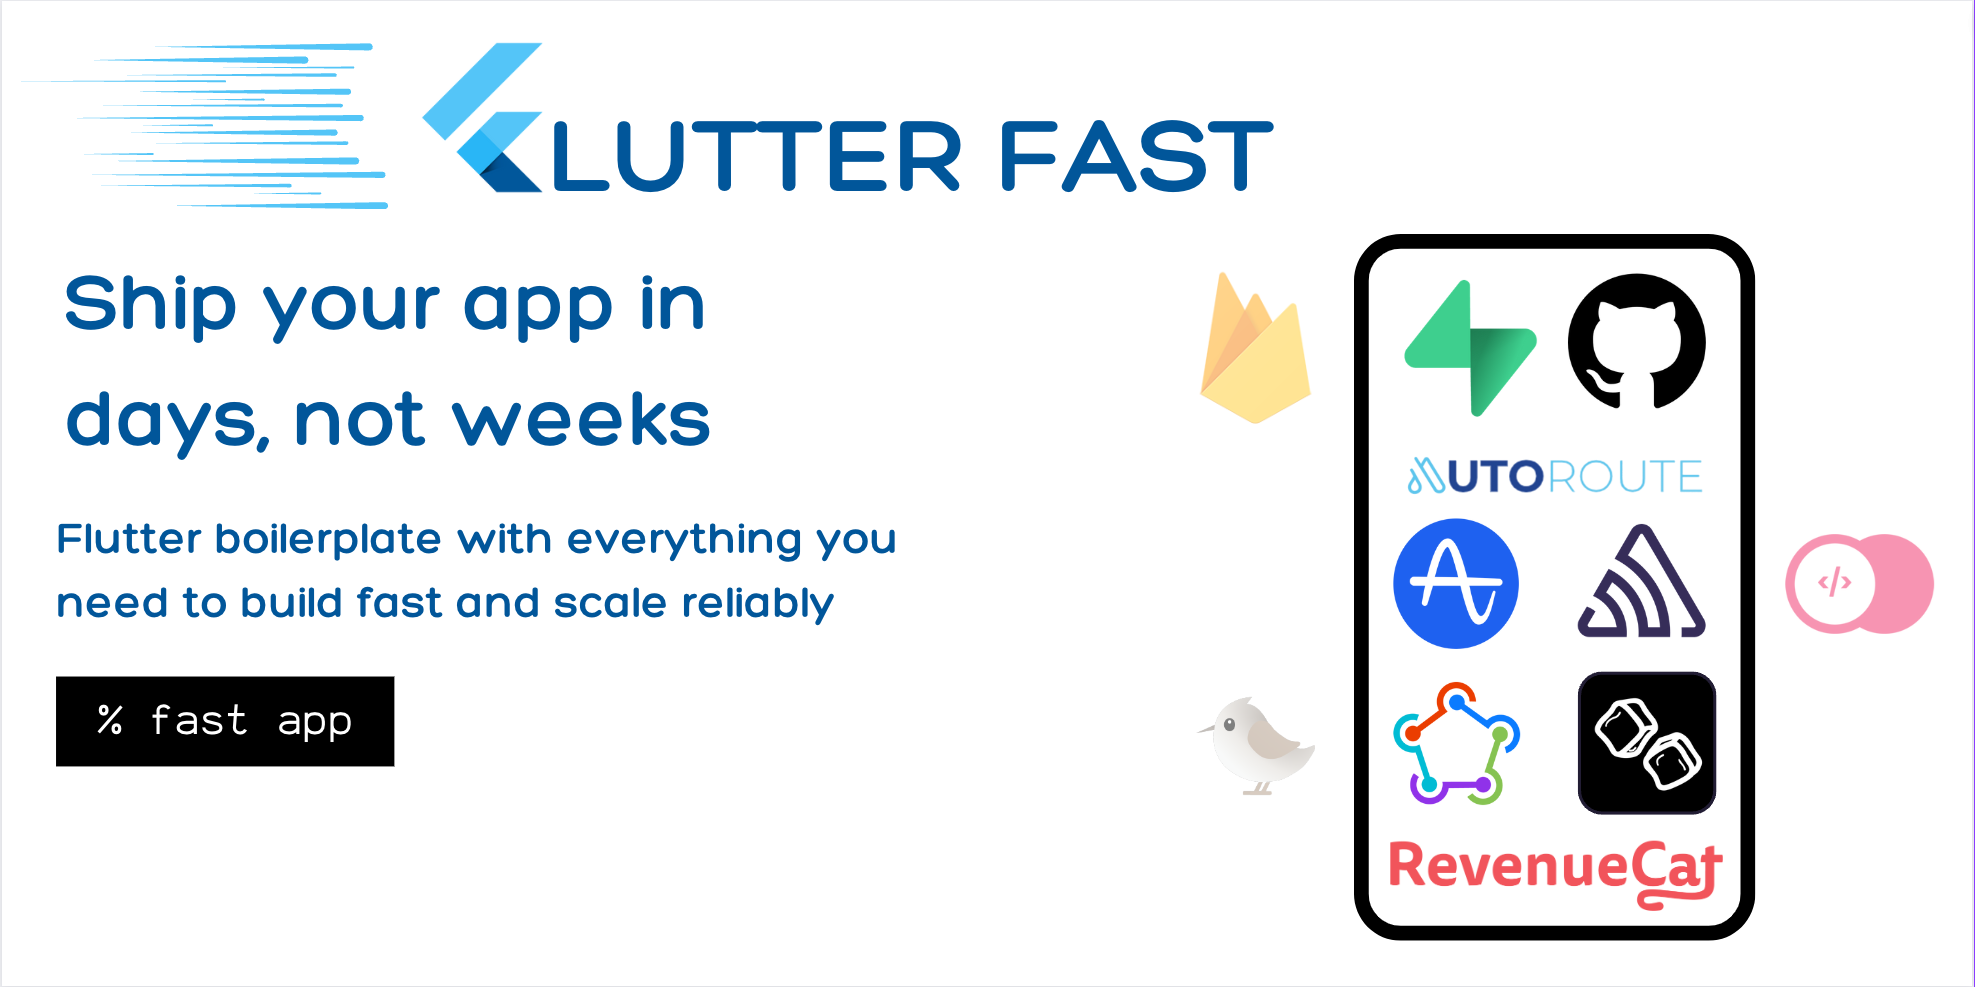
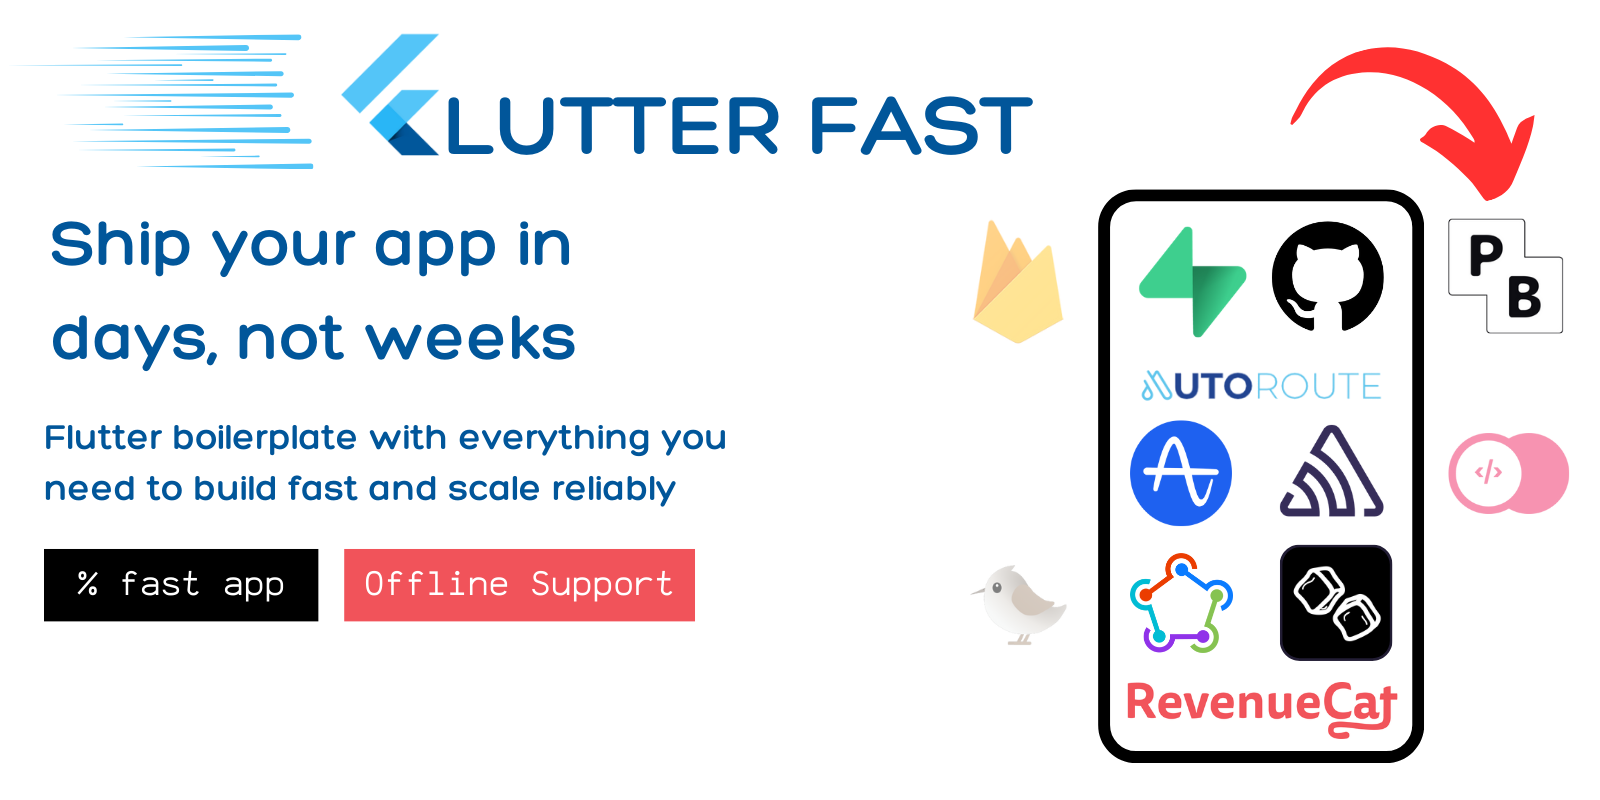
New new

diff --git a/flutterfast/lib/features/authentication/services/authentication_service/pocketbase_authentication_service.dart b/flutterfast/lib/features/authentication/services/authentication_service/pocketbase_authentication_service.dart
@@ -6,12 +6,19 @@ import 'package:flutterfast/app/services.dart';
 import 'package:flutterfast/features/authentication/services/authentication_service/fast_authentication_service.dart';
 import 'package:injectable/injectable.dart';
 import 'package:pocketbase/pocketbase.dart';
+import 'package:shared_preferences/shared_preferences.dart';
+
+PocketBase get pb => PocketBase(
+      const String.fromEnvironment('POCKETBASE_URL'),
+      authStore: AsyncAuthStore(
+        save: (String data) async => sharedPrefs.setString('pb_auth', data),
+        initial: sharedPrefs.getString('pb_auth'),
+      ),
+    );
 
 @pocketbase
 @Singleton(as: FastAuthenticationService)
 class PocketBaseAuthenticationService extends FastAuthenticationService {
-  PocketBase pb = PocketBase(const String.fromEnvironment('POCKETBASE_URL'));
-
   @override
   String? get email => pb.authStore.model.email;
 
@@ -19,28 +26,25 @@ class PocketBaseAuthenticationService extends FastAuthenticationService {
   String? get id => pb.authStore.model.id;
 
   @override
-  Future<void> initialize() async {
-    final store = AsyncAuthStore(
-      save: (String data) async => sharedPrefs.setString('pb_auth', data),
-      initial: sharedPrefs.getString('pb_auth'),
-    );
-
-    pb = PocketBase(const String.fromEnvironment('POCKETBASE_URL'), authStore: store);
-  }
+  Future<void> initialize() async {}
 
   @override
   bool get loggedIn => pb.authStore.isValid;
 
   @override
   Future<void> registerWithEmailAndPassword({required String email, required String password}) async {
-    await pb.collection('users').create(body: {
-      "email": email,
-      "password": password,
-      "passwordConfirm": password,
-      "emailVisibility": true,
-    });
+    try {
+      await pb.collection('users').create(body: {
+        "email": email,
+        "password": password,
+        "passwordConfirm": password,
+        "emailVisibility": true,
+      });
 
-    await signInWithEmailAndPassword(email: email, password: password);
+      await signInWithEmailAndPassword(email: email, password: password);
+    } catch (e) {
+      debugPrint(e.toString());
+    }
   }
 
   @override

diff --git a/lib/src/commands/create_app/steps/cleanup/update_pubspec_file.dart b/lib/src/commands/create_app/steps/cleanup/update_pubspec_file.dart
@@ -10,12 +10,19 @@ Future<void> updatePubspecFile(String appName, String paas) async {
   if (paas == 'firebase') {
     pubspecContents = await removePubspecSection('Supabase', pubspecContents);
     pubspecContents = await removePubspecSection('Appwrite', pubspecContents);
+    pubspecContents = await removePubspecSection('Pocketbase', pubspecContents);
   } else if (paas == 'supabase') {
     pubspecContents = await removePubspecSection('Firebase', pubspecContents);
     pubspecContents = await removePubspecSection('Appwrite', pubspecContents);
+    pubspecContents = await removePubspecSection('Pocketbase', pubspecContents);
   } else if (paas == 'appwrite') {
     pubspecContents = await removePubspecSection('Firebase', pubspecContents);
     pubspecContents = await removePubspecSection('Supabase', pubspecContents);
+    pubspecContents = await removePubspecSection('Pocketbase', pubspecContents);
+  } else if (paas == 'pocketbase') {
+    pubspecContents = await removePubspecSection('Firebase', pubspecContents);
+    pubspecContents = await removePubspecSection('Supabase', pubspecContents);
+    pubspecContents = await removePubspecSection('Appwrite', pubspecContents);
   } else {
     stdout.writeln('Unknown PaaS: $paas');
   }
@@ -25,8 +32,7 @@ Future<void> updatePubspecFile(String appName, String paas) async {
 
 Future<String> removePubspecSection(String section, String pubspec) async {
   // Locate contents between # Section tags
-  RegExp regExp = RegExp(r'#\* ' + section + r' \*#.*#\* ' + section + r' \*#',
-      multiLine: true, dotAll: true);
+  RegExp regExp = RegExp(r'#\* ' + section + r' \*#.*#\* ' + section + r' \*#', multiLine: true, dotAll: true);
   String? contents = regExp.stringMatch(pubspec);
   if (contents != null) {
     String pubspecContents = pubspec.replaceAll(contents, '');

diff --git a/lib/src/commands/create_app/steps/root_updates/create_root_files.dart b/lib/src/commands/create_app/steps/root_updates/create_root_files.dart
@@ -22,16 +22,25 @@ Future<void> createRootFiles(String templatePath, String appName) async {
   await copyPath('$templatePath/assets/images', 'assets/images');
 
   Directory runDirectory = Directory('$templatePath/runConfigurations');
+  Directory vsCodeDirectory = Directory('$templatePath/.vscode');
 
   if (runDirectory.existsSync()) {
     await copyPath('$templatePath/runConfigurations', '.idea/runConfigurations');
+  }
 
-    await copyPath('$templatePath/.vscode', '.idea/.vscode');
+  if (vsCodeDirectory.existsSync()) {
+    await copyPath('$templatePath/.vscode', '.vscode');
+
+    File entity = File('.vscode/launch.json');
+    var content = await entity.readAsString();
+    var modifiedContent = content.replaceAll('internal-', '');
+    await entity.writeAsString(modifiedContent);
   }
 
   File config = File('assets/config.json');
   await config.writeAsString('''
   {
+  "AMAZON_SDK_KEY": "",
   "AMPLITUDE_API_KEY": "",
   "APPWRITE_PROJECT_ID": "",
   "APPWRITE_MAGIC_LINK_URL": "",
@@ -40,7 +49,7 @@ Future<void> createRootFiles(String templatePath, String appName) async {
   "APPWRITE_FEEDBACK_COLLECTION_ID": "",
   "GOOGLE_SDK_KEY": "",
   "IOS_SDK_KEY": "",
-  "AMAZON_SDK_KEY": "",
+  "POCKETBASE_URL": "http://127.0.0.1:8090",
   "SENTRY_DSN": "",
   "SUPABASE_URL": "",
   "SUPABASE_ANON_KEY": ""

diff --git a/flutterfast/lib/features/authentication/services/user_service/pocketbase_user_service.dart b/flutterfast/lib/features/authentication/services/user_service/pocketbase_user_service.dart
@@ -21,10 +21,16 @@ class PocketBaseUserService extends FastUserService {
   }
 
   @override
-  Future<FastUser?> getUser() async {
+    Future<FastUser?> getUser() async {
+    if (authenticationService.id == null) throw Exception('User not authenticated');
+
     RecordModel user = await pb.collection('users').getOne(authenticationService.id!);
 
-    return FastUser.fromJson(user.toJson());
+    FastUser fastUser = FastUser.fromJson(user.toJson());
+
+    setUser(fastUser);
+    
+    return fastUser;
   }
 
   @override

diff --git a/lib/src/commands/wizard/wizard.dart b/lib/src/commands/wizard/wizard.dart
@@ -57,7 +57,7 @@ class Wizard extends Command {
     if (!offline) {
       // User input for PaaS
       while (paasOption != 'f' && paasOption != 's' && paasOption != 'a' && paasOption != 'p') {
-        stdout.write('Enter the PaaS you want to use for your app (f)irebase, (s)upabase, (a)ppwrite: ');
+        stdout.write('Enter the PaaS you want to use for your app (f)irebase, (s)upabase, (a)ppwrite, (p)ocketbase: ');
         paasOption = stdin.readLineSync() ?? 'f';
       }
       paas = paasOption == 'f'

diff --git a/CHANGELOG.md b/CHANGELOG.md
@@ -1,5 +1,15 @@
+## 1.4.5
+- 🟪 Fixed step that removes non PocketBase code references
+- 🟩 Added PocketBase dev URL to `config.json` (http://127.0.0.1:8090)
+- *Date:* 1-26-2024
+
+## 1.4.4
+- 🟪 Fixed copying of .vscode folder
+- *Date:* 1-26-2024
+
 ## 1.4.3
 - 🟪 Updated Readme
+- *Date:* 1-24-2024
 
 ## 1.4.2
 - 🟩 Added PocketBase Integration 
@@ -10,7 +20,7 @@
 - 🟩 Added `config.dart` file for aggregating app strings
 - 🟪 Removed hard coded background color on auth screens
 - 🟪 Fixed TextEditingController instantiation on SignInView
-- *Date:* 1-4-2024
+- *Date:* 1-24-2024
 
 ## 1.4.1
 - 🟩 Added [ITSAppUsesNonExemptEncryption](https://stackoverflow.com/a/35895077/12806961) to Info.plist 
